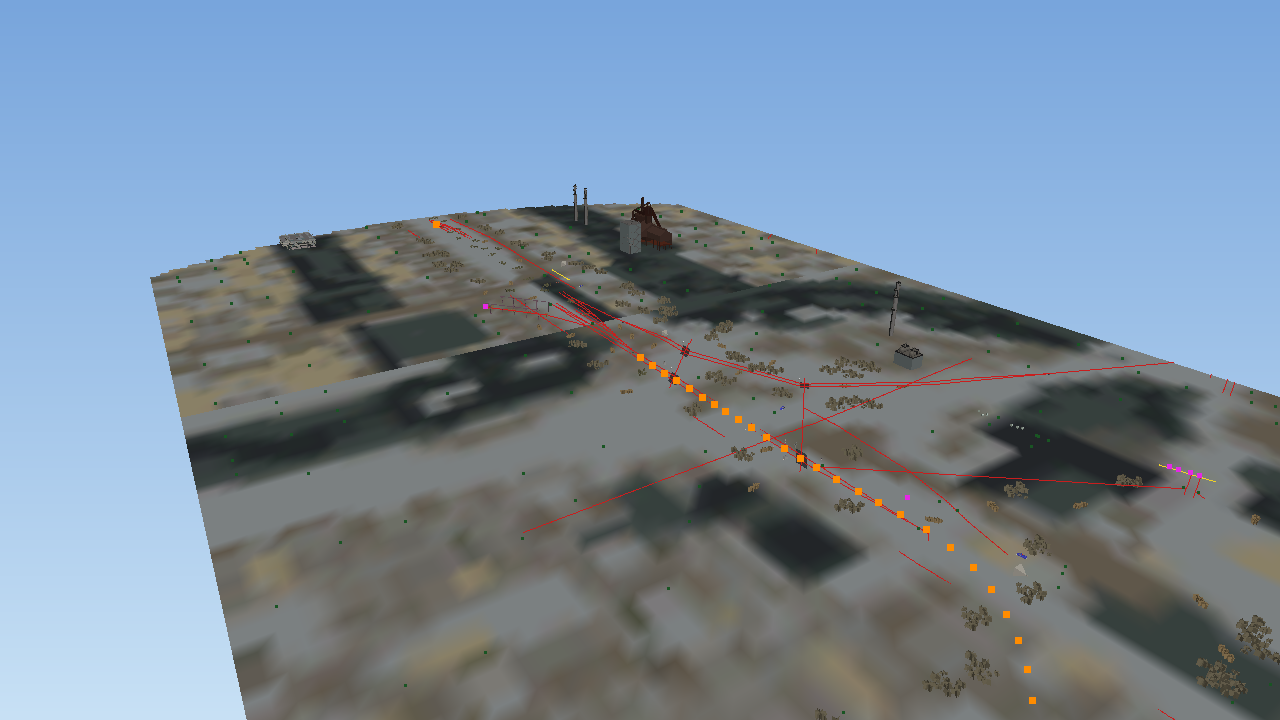
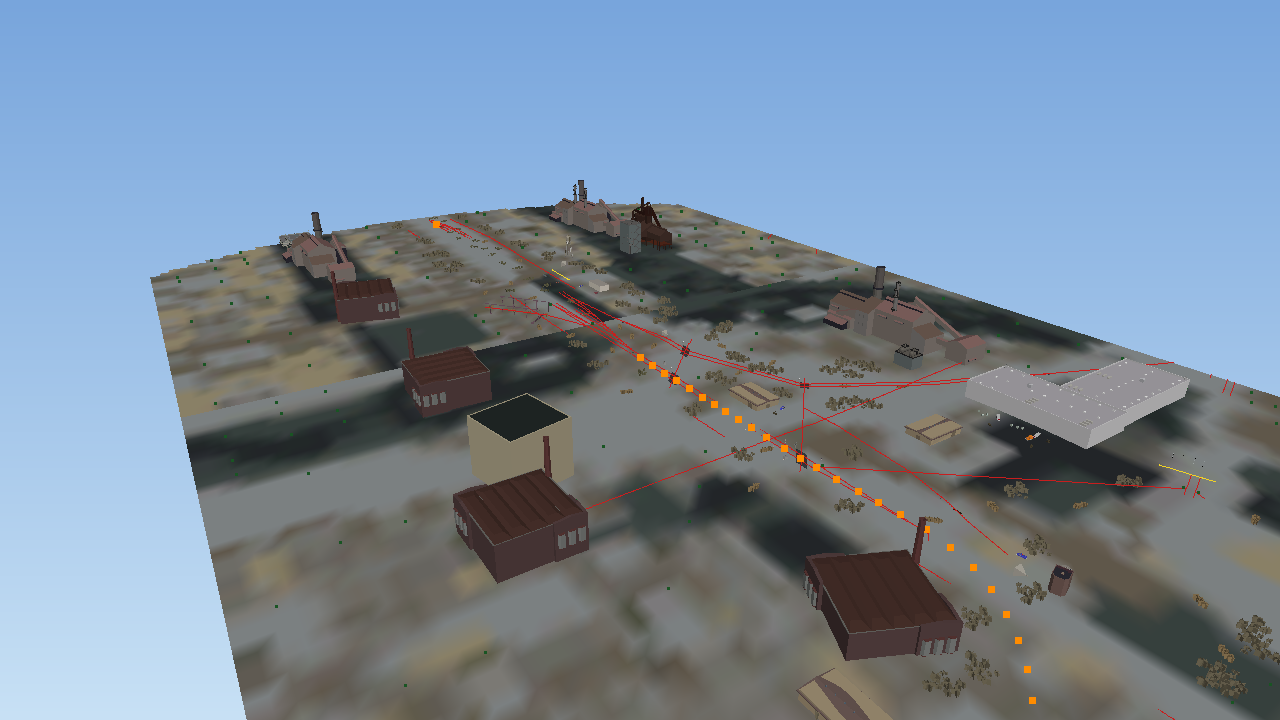
Read bare-number KUIDs as user -1; asset-tool find reports no match (overall 33%)
500 disc configs were dropped from the asset index for an unreadable
KUID. 488 give it as a bare number ('kuid 101135', or in quotes), and
every one in a KUID-named folder sits in 'kuid _1 <number>'. They now
read as <kuid:-1:number> (observed, not traced). No config is dropped
any more; 19,282 assets are indexed, all matching their folder names. In
the 3D view the test route goes from 246 to 856 objects drawn as models.
asset-tool find printed nothing when nothing matched; it says so now.
Step 3 is now 65%; overall 33.25/102 = 32.60%.

diff --git a/src/content/AssetConfig.cpp b/src/content/AssetConfig.cpp
@@ -413,7 +413,22 @@ std::optional<trainz::content::Kuid> ConfigNode::asKuid() const {
 
 std::optional<trainz::content::Kuid> AssetConfig::assetKuid() const {
     const ConfigNode* k = root.child("kuid");
-    return k ? k->asKuid() : std::nullopt;
+    if (k == nullptr) {
+        return std::nullopt;
+    }
+    // A bare number ("kuid 101135") is the content number with user -1. Observed, not
+    // traced: in all 488 disc assets that use it inside a KUID-named folder, the folder
+    // is "kuid _1 <that number>". (12 more are in Base.ja/Data.ja folders not named
+    // after a KUID, so they don't confirm it either way.)
+    if (k->type == ConfigType::Integers && k->ints.size() == 1) {
+        return trainz::content::Kuid{-1, k->ints[0], std::nullopt};
+    }
+    // The same written as text ("101060"): one more disc asset, folder "kuid _1 101060".
+    if (k->type == ConfigType::String && !k->text.empty() && k->text.size() <= 9 &&
+        k->text.find_first_not_of("0123456789") == std::string::npos) {
+        return trainz::content::Kuid{-1, std::stoi(k->text), std::nullopt};
+    }
+    return k->asKuid();
 }
 
 AssetConfig parseChump(std::span<const std::uint8_t> data) {

diff --git a/tests/test_asset_config.cpp b/tests/test_asset_config.cpp
@@ -294,3 +294,15 @@ TEST(AssetConfigApi, FormatRoundTripsThroughTheTextParser) {
     EXPECT_EQ(again.root.child("g")->child("f")->floats.at(0), 0.5f);
     EXPECT_EQ(again.root.child("nums")->ints, (std::vector<std::int32_t>{1, 2}));
 }
+
+TEST(AssetConfig, BareNumberKuidIsUserMinusOne) {
+    // "kuid 101135" in 487 disc assets, each in a folder "kuid _1 101135" (observed).
+    const std::string text = "kind \"scenery\"\nkuid 101135\n";
+    const auto cfg = parseConfigText(std::vector<std::uint8_t>(text.begin(), text.end()));
+    EXPECT_EQ(cfg.assetKuid(), (Kuid{-1, 101135, std::nullopt}));
+    const std::string quoted = "kuid \"101060\"\n";
+    EXPECT_EQ(parseConfigText(std::vector<std::uint8_t>(quoted.begin(), quoted.end())).assetKuid(),
+              (Kuid{-1, 101060, std::nullopt}));
+    const std::string two = "kuid 1,2\n";  // not a single number: not a KUID
+    EXPECT_FALSE(parseConfigText(std::vector<std::uint8_t>(two.begin(), two.end())).assetKuid().has_value());
+}

diff --git a/tools/asset_tool.cpp b/tools/asset_tool.cpp
@@ -87,7 +87,16 @@ int main(int argc, char** argv) {
             for (const auto* r : index.obsoletedBy(*k)) {
                 std::printf("  (listed as obsolete by %s)\n", formatKuid(r->kuid).c_str());
             }
-            return found.empty() ? 1 : 0;
+            if (found.empty()) {
+                std::cerr << "no asset with " << formatKuid(*k) << " in " << argv[2];
+                const auto others = index.allVersions(k->user, k->content);
+                if (!others.empty()) {
+                    std::cerr << " (other versions exist: try asset-tool versions)";
+                }
+                std::cerr << "\n";
+                return 1;
+            }
+            return 0;
         }
         if (cmd == "versions" && argc == 4) {
             const auto k = parseKuidLoose(argv[3]);

diff --git a/src/view/AssetMeshes.h b/src/view/AssetMeshes.h
@@ -44,7 +44,7 @@ public:
     // Counts of mesh-table entries drawn and skipped (attachments, shadows, .lm, …).
     const std::map<std::string, std::size_t>& parts() const { return parts_; }
 
-    static constexpr std::size_t kMaxTrianglesPerMesh = 150000;  // all parts of one asset together
+    static constexpr std::size_t kMaxTrianglesPerMesh = 150000;  // the eligible full-detail daytime parts of one asset together
 
 private:
     const trainz::content::JaArchive* archive(const std::filesystem::path& path);

diff --git a/src/content/AssetConfig.h b/src/content/AssetConfig.h
@@ -64,7 +64,9 @@ struct AssetConfig {
     ConfigNode root;                 // type Group, empty key
     std::vector<std::string> warnings;
 
-    // The asset's own KUID (its top-level "kuid" entry), if present and readable.
+    // The asset's own KUID (its top-level "kuid" entry), if present and readable. A bare
+    // number, or a number written as text, is read as <kuid:-1:number> (observed on 488
+    // disc assets; not traced).
     std::optional<trainz::content::Kuid> assetKuid() const;
 };
 

diff --git a/ROADMAP.md b/ROADMAP.md
@@ -1,10 +1,10 @@
 # Roadmap – Trainz Simulator 2010 on Linux (Hearth OS)
 
-**Overall progress: 32%**
+**Overall progress: 33%**
 
 `[██████░░░░░░░░░░░░░░]`
 
-*Last updated: 2026-11-11, after 3D models in the route view (step 8).*
+*Last updated: 2026-11-11, after the bare-number KUID fix (step 3).*
 
 This file is updated with every change that moves the project forward. The
 percentage is a **weighted estimate**, not a measurement: see
@@ -36,7 +36,7 @@ percentage is a **weighted estimate**, not a measurement: see
 | 0 | Analysis: engine map, disc contents, tooling | 2 | 65% | Claude | Engine map written ([`docs/ENGINE-MAP.md`](docs/ENGINE-MAP.md)). Function-level names inside `trainz.exe` still need a working decompiler (REA needs Ghidra 12.1.x; this PC has 12.2). |
 | 1 | `.ja` archive reader + `ja-tool` | 3 | 90% | Claude | Done in C++, CI green, format in [`docs/formats/ja.md`](docs/formats/ja.md). **Real data:** every entry of `Base.ja` and `Data.ja` decoded in CI. **Missing:** a full pass over `Builtin\1.ja`–`8.ja` on Dad's PC. **Whole disc:** every config/texture/mesh/animation/terrain entry in all 8 `Builtin` archives decoded (Python survey, [`docs/DISC-SURVEY.md`](docs/DISC-SURVEY.md)). |
 | 2 | Asset configs: `config.txt` + `config.chump` + KUIDs | 3 | 85% | Claude | Done in C++, CI green, format in [`docs/formats/config.md`](docs/formats/config.md). **Real data:** 1,639 configs parse in CI, all 1,468 asset KUIDs match their folders. **Missing:** tracing the text grammar in `trainz.exe`; `Builtin\1.ja`–`7.ja`. **Whole disc:** all 19,112 `.chump` + 70 `config.txt` parse (one grammar fix: value on the next line). |
-| 3 | Asset index (KUID → where the asset lives) + `asset-tool` | 4 | 60% | Claude | Written in C++ ([`docs/formats/asset-index.md`](docs/formats/asset-index.md)). **Real data:** 1,626 assets indexed in CI, no KUID warnings. **Missing:** `.cdp` packages, which copy/version the game picks (not traced), an on-disk cache, a run on Dad's full install. |
+| 3 | Asset index (KUID → where the asset lives) + `asset-tool` | 4 | 65% | Claude | Written in C++ ([`docs/formats/asset-index.md`](docs/formats/asset-index.md)). **Real data:** 1,626 assets indexed in CI, no KUID warnings. Bare-number KUIDs (`kuid 101135` = `<kuid:-1:101135>`, observed on 488 assets) now read: no disc config is dropped for its KUID, 19,282 assets indexed, all matching their folder names. **Missing:** `.cdp` packages, which copy/version the game picks (not traced), an on-disk cache, a run on Dad's full install. |
 | 4 | Textures: `.texture` (`MMTF`), `.tga`, `.bmp`, `.jpg` + `texture-tool` | 4 | 85% | Claude | `.texture` done in C++ ([`docs/formats/texture.md`](docs/formats/texture.md)): ARGB8888, RGB0888, DXT1/3/5, mip chain, PNG export. **`.tga`/`.bmp`/`.jpg`** done in C++ ([`docs/formats/image.md`](docs/formats/image.md)): TGA types 1/2/3/10 (+9/11), BMP 4/8/24/32 bpp + RLE8, JPEG baseline/progressive via libjpeg (optional); `texture-tool png` takes them. **Real data:** every texture in the test data parses in CI; all 1,276 test-data images decode (C++, ASan, run by hand). `.texture.txt` descriptors: keys/values/`Tile` traced in `RenderSystem_7c.dll`, all 360 disc descriptors resolve and combine ([`docs/formats/texture-descriptor.md`](docs/formats/texture-descriptor.md)). **Missing:** how the game itself loads images and uses alpha (not traced). **Whole disc:** all 89,524 textures fit (INFO version 262 found); of 20,544 images, 20,540 decode in C++ and 4 damaged ones are refused. |
 | 5 | 3D models: `.im` / `.pm` (`JIRF`/`IDXM`) + a model viewer | 8 | 60% | Claude | `GEOM` (v101/102/200/201) and `MATL` (v102/103) worked out from data; C++ reader, `mesh-tool` ([`docs/formats/mesh.md`](docs/formats/mesh.md)) and a **GPU `model-viewer`** (SDL2 + OpenGL 2.1, textures, `.kin` playback). **Real data:** 291 meshes / 1,438 parts parse in CI. **Missing:** the viewer has **not been run on a screen yet**; `INFO`/`INFL`/`ATCH`/`SKEL`/`PMIN`/`NINF`; tracing the reader code. **Whole disc:** all materials fit once UTF-16 text is read; 65 meshes look damaged by a text-mode transfer before the disc was made; `repairTextModeDamage` turns them into consistent files. |
 | 6 | Materials and shaders (`m.onetex` …, `vtx.txt`/`pxl.txt`) | 6 | 0% | Claude | Map to modern shaders; Cg is discontinued. |
@@ -53,8 +53,8 @@ percentage is a **weighted estimate**, not a measurement: see
 | 17 | Validation on Dad's PC (real-install tests, full archive verify, speed on the hard drive) | 4 | 40% | Claude + owner | **Started:** real game data in the private repo (`testdata/ts2010`), all `RealInstall.*` tests run in CI with a full decode. **Missing:** the same tests on Dad's full install, speed on his hard drive. **Whole disc surveyed** (170,167 Builtin entries plus Base/Data scans; [`docs/DISC-SURVEY.md`](docs/DISC-SURVEY.md)). |
 | | **Total** | **102** | | | |
 
-**Overall** = Σ(weight × done) ÷ Σ(weight) = (2×0.65 + 3×0.90 + 3×0.85 + 4×0.60 + 4×0.85 + 8×0.60 + 4×0.60 + 10×0.65 + 4×0.50 + 2×0.60 + 4×0.55 + 4×0.40) ÷ 102 =
-33.05 ÷ 102 = 32.40% → **32%**. The parts Claude doesn't write (steps 12–15) carry 41 of the
+**Overall** = Σ(weight × done) ÷ Σ(weight) = (2×0.65 + 3×0.90 + 3×0.85 + 4×0.65 + 4×0.85 + 8×0.60 + 4×0.60 + 10×0.65 + 4×0.50 + 2×0.60 + 4×0.55 + 4×0.40) ÷ 102 =
+33.25 ÷ 102 = 32.60% → **33%**. The parts Claude doesn't write (steps 12–15) carry 41 of the
 102 weight points.
 
 ---
@@ -86,6 +86,7 @@ roadmap existed were filled in afterwards from the chat history.
 
 | Date | Overall | Change |
 |---|---:|---|
+| 2026-11-11 | 33% | Step 3 (60% → 65%): 500 disc configs were dropped from the asset index for an unreadable KUID; 488 of them write it as a bare number (`kuid 101135`, or in quotes), and every one in a KUID-named folder sits in `kuid _1 <number>`, so they now read as `<kuid:-1:number>` (observed, not traced). No config is dropped now; 19,282 assets indexed, all matching their folder names. In the 3D view the test route goes from 246 to 856 objects as models (trees included). `asset-tool find` now says when nothing matches (it printed nothing). "Eligible full-detail daytime parts" wording (ChatGPT review). Overall 33.05 → 33.25 ÷ 102 = 32.60% → 33%. |
 | 2026-11-11 | 32% | No step change. Model parts in the view: every full-detail daytime `mesh-table` entry at the origin is drawn, not just the first; lower LODs, night variants (`night-mesh-base`), attached parts (`att`) and shadows are skipped and counted; `asset-filename` + `.im` used when a config names no mesh. Test route: 246 objects as models. Limits stated (flat colours, attached parts missing) (ChatGPT review). |
 | 2026-11-11 | 32% | Step 8 (60% → 65%): `route-tool view --install` draws placed objects as their real 3D models: asset index → config's first mesh → triangles, turned by the object's yaw, one flat colour per part (texture average). On the test route with the whole disc indexed: 222 objects as models (houses, turntable, buildings); the rest stay dots (no mesh in the config, `.lm` only, or missing). Train height in the view labelled a preview approximation (ChatGPT review). Overall 32.55 → 33.05 ÷ 102 = 32.40% → 32%. |
 | 2026-11-11 | 32% | Step 8 (55% → 60%): first 3D route view. `route-tool view` renders a perspective picture with a new small software renderer (`src/view/SceneRender`): terrain from the height grid coloured by the route's overview maps, track lines, objects and (with `--session`) trains, from decoded data only; no meshes or textures. Renderer unit tests plus a CLI check on the test route. The in-baseboard vehicle check is labelled a disc-tested heuristic with its evidence (ChatGPT review). Overall 32.05 → 32.55 ÷ 102 = 31.91% → 32%. |

diff --git a/docs/screenshots/README.md b/docs/screenshots/README.md
@@ -15,7 +15,7 @@ port can already read and draw.
 | ![](crate-descriptor.png) | A crate built from a `.texture.txt` descriptor: colour TGA + separate grey alpha mask (see-through slats) | `texture-tool png` |
 | ![](sample-view.png) | **3D view** of the test route: terrain coloured from its overview maps (the grey strip is the airport runway), track, signals (magenta) and trees (green). Rendered by the port's own software renderer from decoded data; no models or textures yet | `route-tool view` |
 | ![](midday-view.png) | **3D view** of "Midday Manifest": one of its trains (orange) on its track through a town. Vehicles are drawn at their track piece's height, a preview approximation, not a decoded vehicle elevation | `route-tool view … --session … --radius 500` |
-| ![](sample-view-models.png) | **3D view with models** (`--install`): the test route's houses, yard turntable and buildings drawn as their real 3D models from the disc (246 objects). Preview limits: one flat colour per part (the average of its texture); full-detail daytime parts only; parts on attachment points (e.g. doors) are left out | `route-tool view … --install …` |
+| ![](sample-view-models.png) | **3D view with models** (`--install`): the test route's houses, yard turntable and buildings drawn as their real 3D models from the disc (856 objects, trees included, after the bare-number KUID fix). Preview limits: one flat colour per part (the average of its texture); full-detail daytime parts only; parts on attachment points (e.g. doors) are left out | `route-tool view … --install …` |
 | ![](midday-view-models.png) | "Midday Manifest" with models: bushes, poles and an industrial structure along the line, the train in orange | `route-tool view … --session … --install …` |
 | ![](thueringen-overview.png) | "Thüringen Romantik Strecke": every terrain section's built-in 64×64 overview map, stitched | `route-tool overview` |
 | ![](thueringen-track.png) | The same route: terrain heights (black low, white high), placed objects (green) and the track network on top | `route-tool track` |

diff --git a/docs/formats/asset-index.md b/docs/formats/asset-index.md
@@ -63,3 +63,13 @@ Per archive, the index reads only the config entries, sorted by file offset,
 so the drive moves forward only. For `8.ja` that's 1,468 small reads spread
 over 556 MB. The index lives in memory and is not yet cached to disk. A
 cache would go in `~/.local/share/trainz-native/`.
+
+## Bare-number KUIDs (observed, not traced)
+
+488 disc configs give their own KUID as a bare number (`kuid 101135`) or a number in
+quotes (`kuid "101060"`), not `<kuid:…>`. They were dropped as "no readable top-level
+kuid" until 2026-11-11. In every one that sits in a KUID-named folder, the folder is
+`kuid _1 <that number>`, so the reader takes them as `<kuid:-1:number>` (user −1, written
+`_1` in folder names). 12 more are in `Base.ja`/`Data.ja` folders not named after a KUID,
+so they don't confirm the rule either way. With it, no config on the disc is dropped for its
+KUID, and all 19,282 indexed assets' KUIDs match their folder names.
